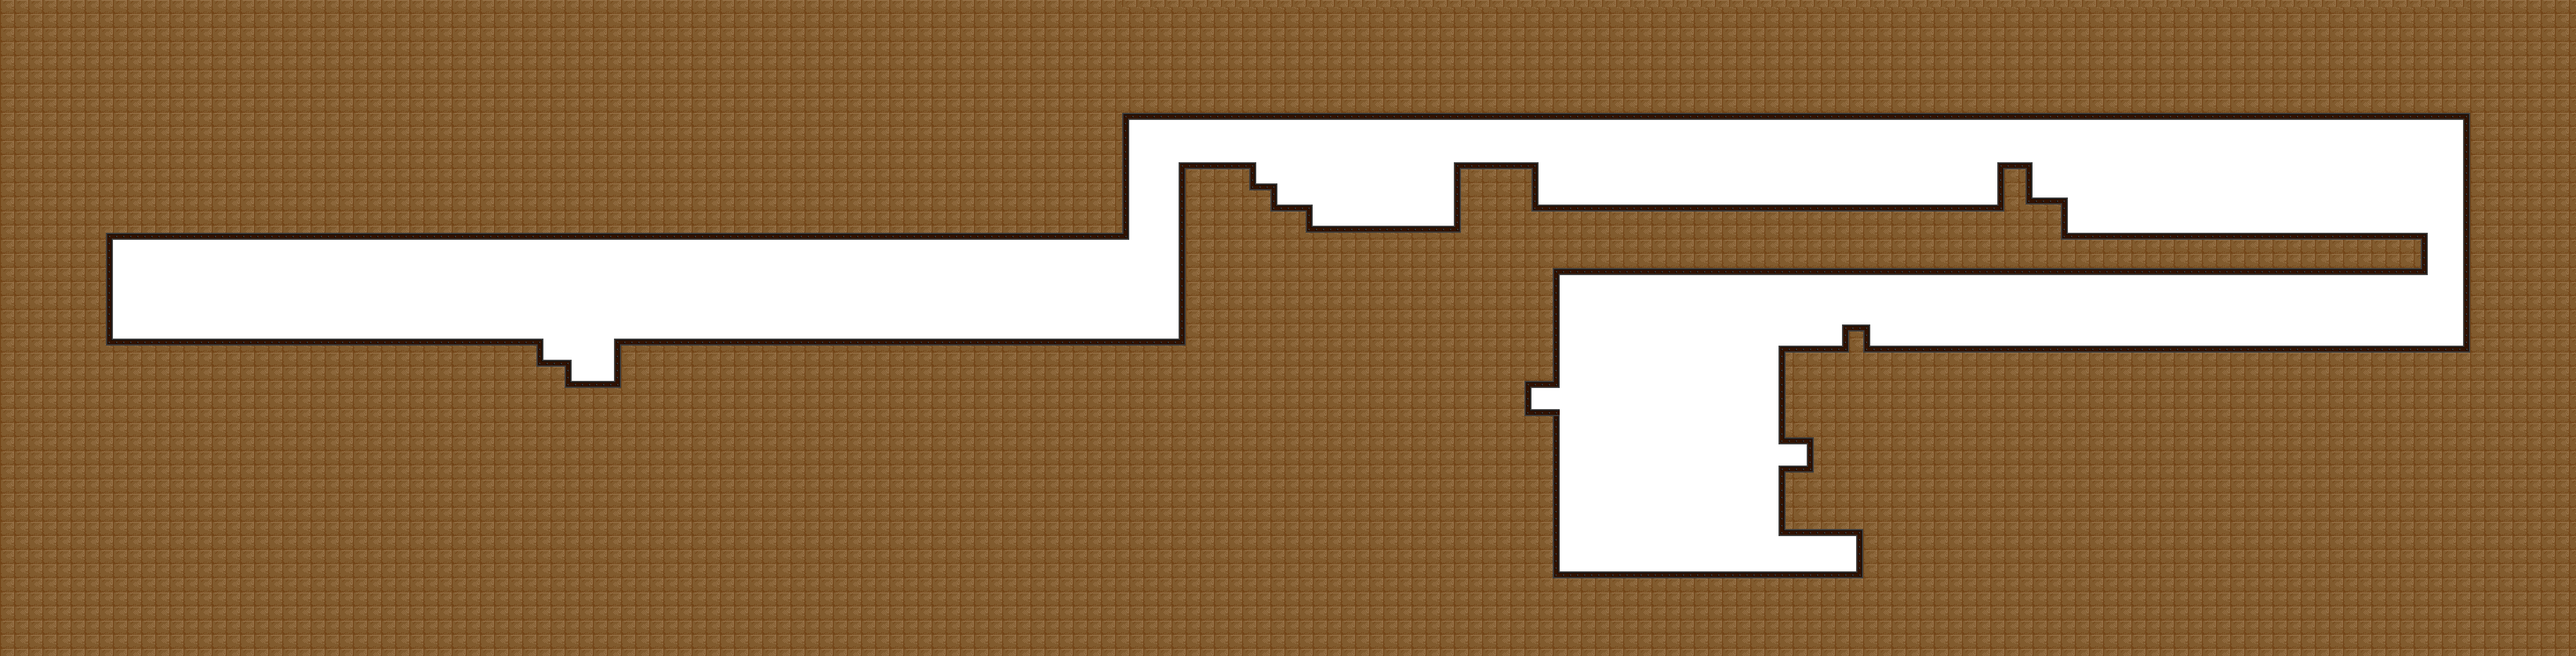
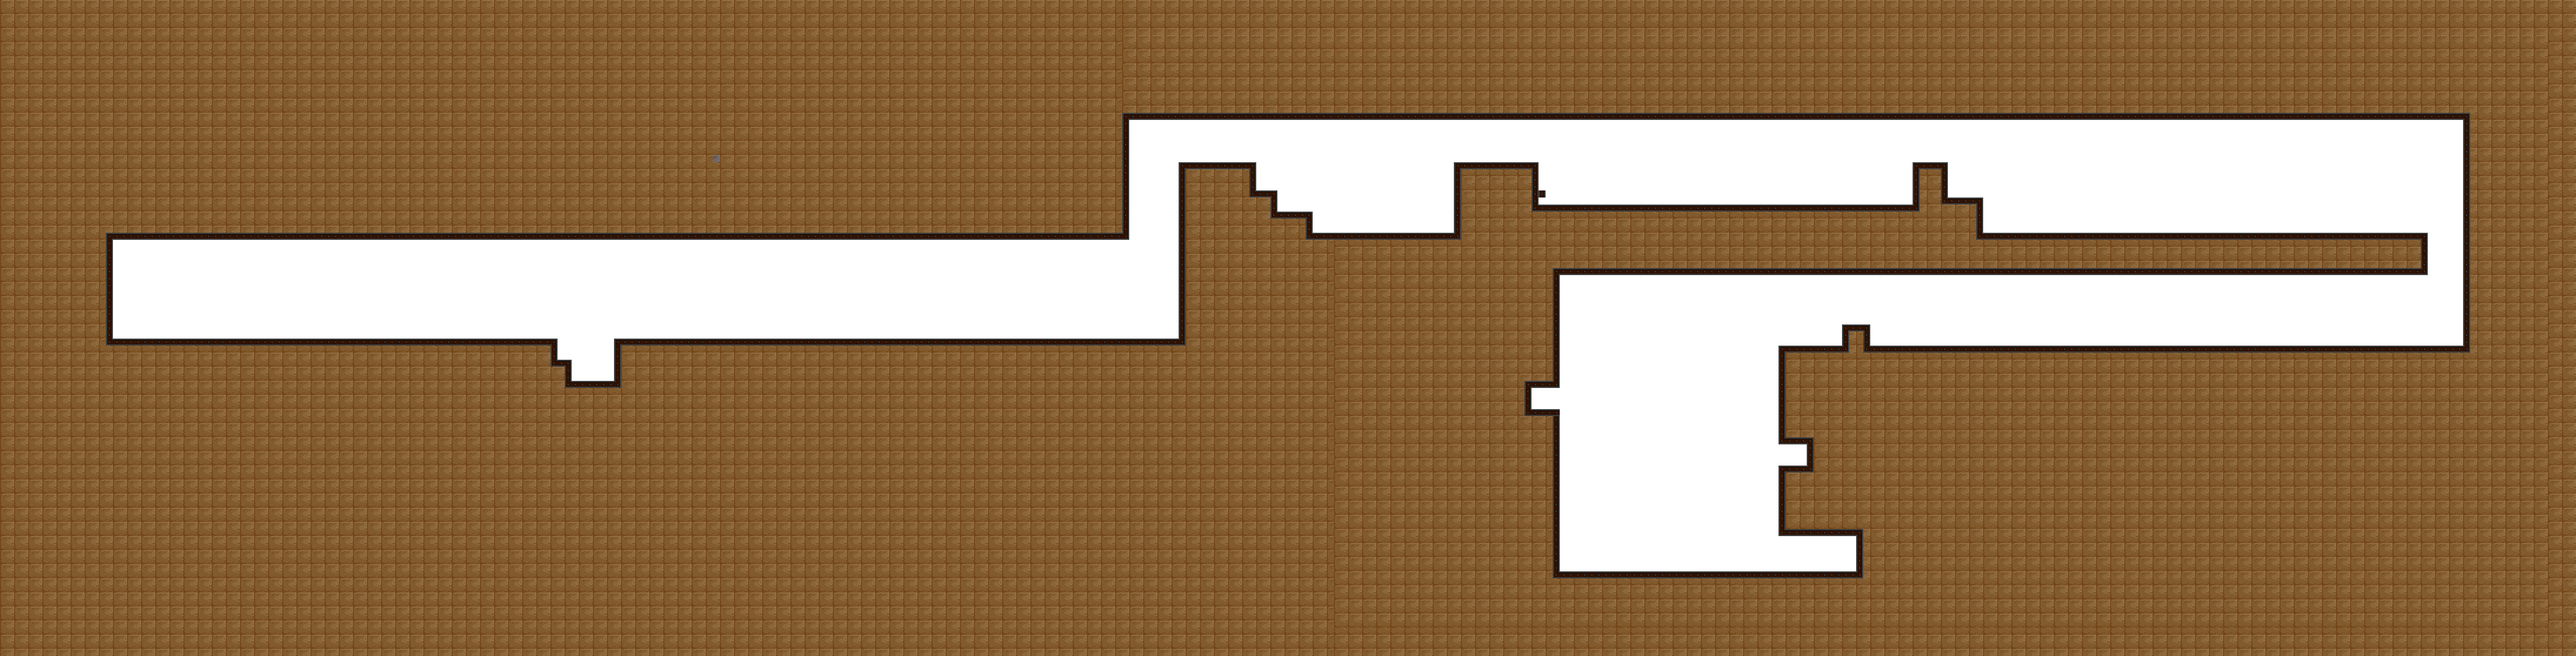
fix ground, tune screws

Changed region(s): [[0.4363, 0.0, 1.0, 1.0], [0.4675, 0.2782, 0.4986, 0.3091], [0.187, 0.5255, 0.2182, 0.5565]]

diff --git a/ECS_DRAFT/src/common.hpp b/ECS_DRAFT/src/common.hpp
@@ -71,7 +71,7 @@ const float ACCELERATION_COOLDOWN_MS = 1500.0f;
 const float DECELERATION_COOLDOWN_MS = 1000.0f;
 
 const float ACCELERATION_DURATION_MS = 10000.0f;
-const float DECELERATION_DURATION_MS = 10000.0f;
+const float DECELERATION_DURATION_MS = 15000.0f;
 
 // Screen shader effect
 const float ACCELERATION_EMERGE_MS = 150.0f;
@@ -271,7 +271,7 @@ const vec2 CANNON_PROJECTILE_SIZE = vec2 {30.0f, 30.0f};
 
 // Pipes and Screws
 const float PIPE_FIRING_PERIOD_MS = 8000.0f;
-const float SCREW_SPEED = 300.0f;
+const float SCREW_SPEED = 400.0f;
 const vec2 SCREW_SIZE = vec2{ 90.0f, 14.0f };
 
 const float SCREW_FLIGHT_LENGTH = 1000.0f; // MODIFY THIS ACCORDING TO LEVEL DESIGN
